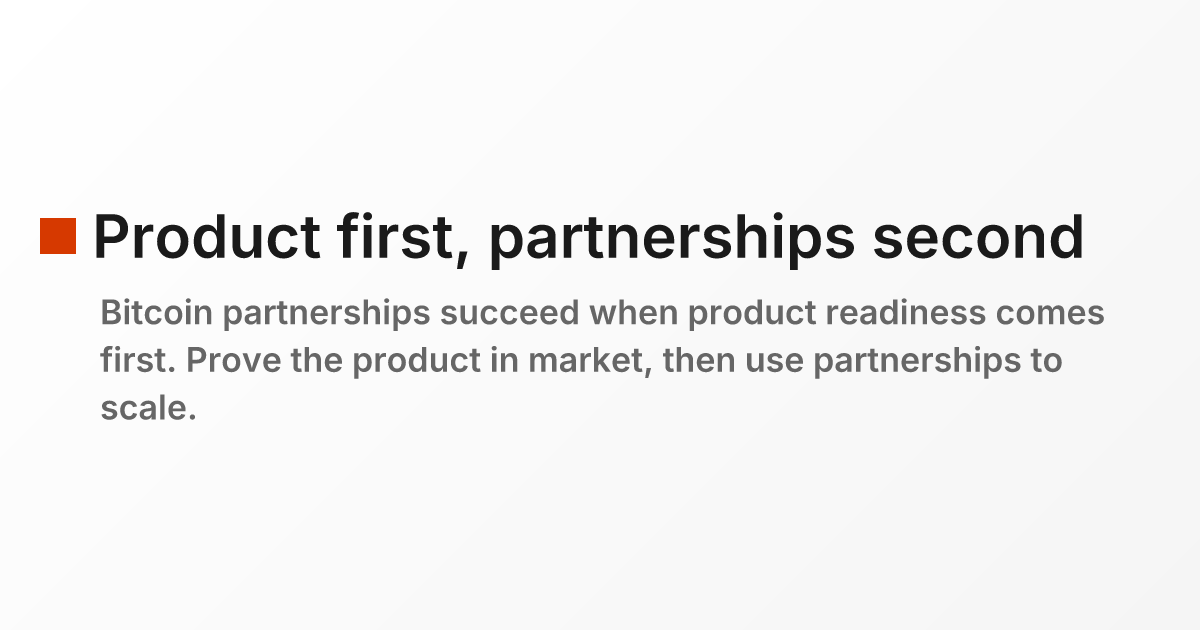
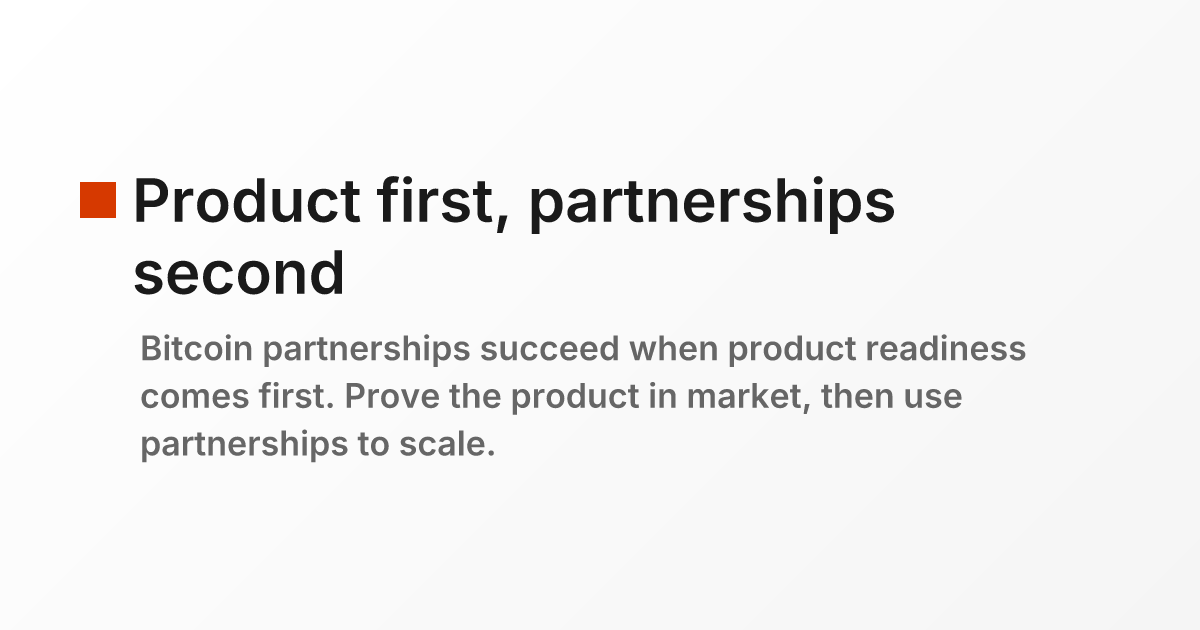
fix: balance landscape OG image margins
- Increase padding from 60px to 80px
- Reduce max-width from 1000px to 980px
- Creates more balanced left/right visual margins
- Left: 80px, Right: ~88px (vs previous 60px vs 118px)

Changed region(s): [[0.0308, 0.2714, 0.925, 0.6635], [0.0925, 0.6937, 0.4008, 0.7238]]

diff --git a/scripts/generate-og-images.js b/scripts/generate-og-images.js
@@ -85,7 +85,7 @@ async function main() {
           width: 1200px;
           height: 630px;
           background: linear-gradient(135deg, ${COLORS.bgPrimary} 0%, ${COLORS.bgSecondary} 100%);
-          padding: 40px;
+          padding: 80px;
           font-family: 'Inter', sans-serif;
         ">
           <div style="
@@ -114,7 +114,7 @@ async function main() {
                 color: ${COLORS.textPrimary};
                 line-height: 1.2;
                 margin: 0;
-                max-width: 1100px;
+                max-width: 980px;
               ">${title}</h1>
             </div>
             <p style="
@@ -122,7 +122,7 @@ async function main() {
               color: ${COLORS.textSecondary};
               line-height: 1.4;
               margin: 0;
-              max-width: 1100px;
+              max-width: 980px;
               padding-left: 60px;
             ">${description}</p>
           </div>
